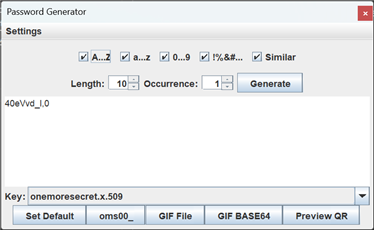
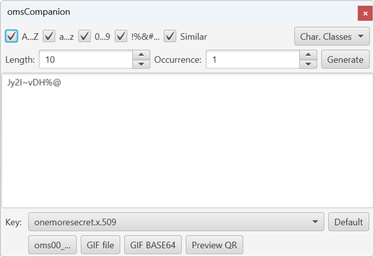
readme images with openjfx

diff --git a/omscompanion/src/main/java/omscompanion/openjfx/PasswordGenerator.java b/omscompanion/src/main/java/omscompanion/openjfx/PasswordGenerator.java
@@ -279,7 +279,7 @@ public class PasswordGenerator {
 				var scene = new Scene(fxmlLoader.load());
 				((PasswordGenerator) fxmlLoader.getController()).init();
 				var stage = new Stage();
-				stage.setTitle(Main.APP_NAME);
+				stage.setTitle(Main.APP_NAME + ": password generator");
 				stage.setScene(scene);
 				stage.initStyle(StageStyle.UTILITY);
 				stage.show();

diff --git a/omscompanion/src/main/java/omscompanion/openjfx/PublicKeyImport.java b/omscompanion/src/main/java/omscompanion/openjfx/PublicKeyImport.java
@@ -106,7 +106,7 @@ public class PublicKeyImport {
 				var scene = new Scene(fxmlLoader.load());
 				((PublicKeyImport) fxmlLoader.getController()).init();
 				var stage = new Stage();
-				stage.setTitle(Main.APP_NAME);
+				stage.setTitle(Main.APP_NAME + ": import public key");
 				stage.setScene(scene);
 				stage.initStyle(StageStyle.UTILITY);
 				stage.show();

diff --git a/omscompanion/src/main/java/omscompanion/openjfx/NewPrivateKey.java b/omscompanion/src/main/java/omscompanion/openjfx/NewPrivateKey.java
@@ -389,7 +389,7 @@ public class NewPrivateKey {
 				var scene = new Scene(fxmlLoader.load());
 				((NewPrivateKey) fxmlLoader.getController()).init();
 				var stage = new Stage();
-				stage.setTitle(Main.APP_NAME);
+				stage.setTitle(Main.APP_NAME + ": new private key");
 				stage.setScene(scene);
 				stage.initStyle(StageStyle.UTILITY);
 				stage.show();

diff --git a/omscompanion/src/main/java/omscompanion/openjfx/NewItem.java b/omscompanion/src/main/java/omscompanion/openjfx/NewItem.java
@@ -40,7 +40,7 @@ public class NewItem {
 				var scene = new Scene(fxmlLoader.load());
 				((NewItem) fxmlLoader.getController()).init(message);
 				var stage = new Stage();
-				stage.setTitle("omsCompanion");
+				stage.setTitle(Main.APP_NAME + ": encrypt data");
 				stage.setScene(scene);
 				stage.initStyle(StageStyle.UTILITY);
 				stage.show();
